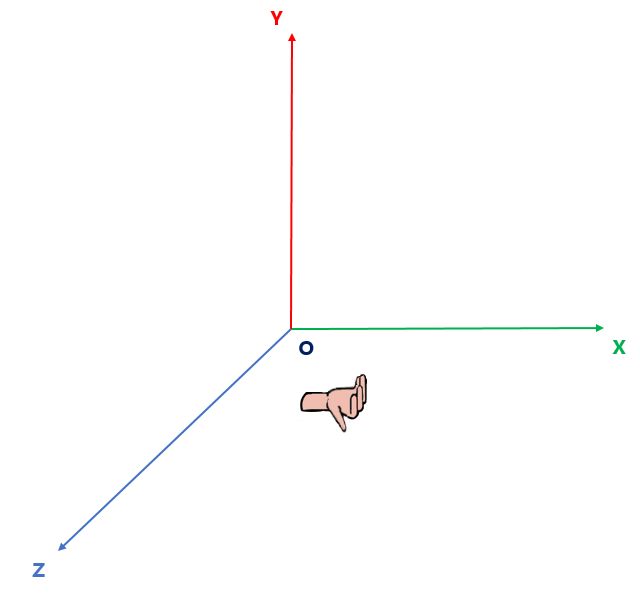
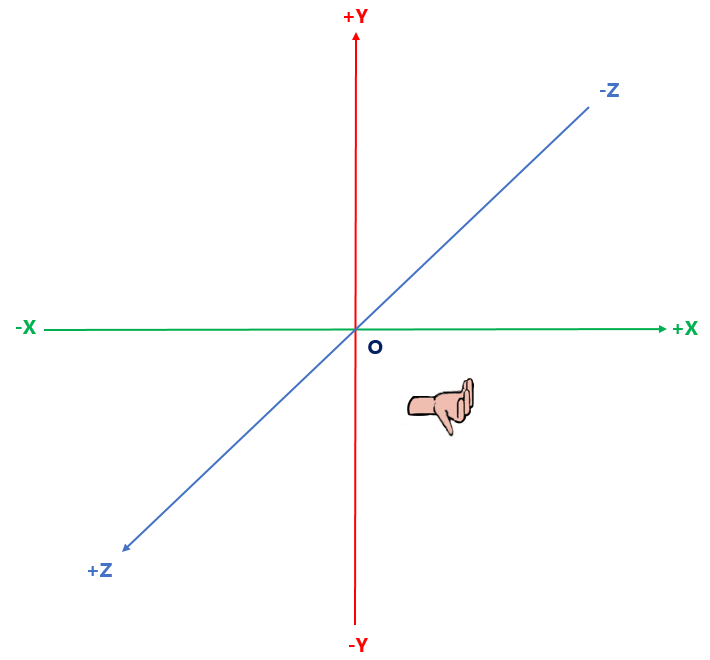
1、添加文档图片资源

diff --git a/README.md b/README.md
@@ -1354,11 +1354,15 @@ public:
 - 相机坐标系
 - 坐标系转换
 
-　　经过以上那么多铺垫，终于要开始我们的3-D世界旅程了。不过在开始我们3-D世界的旅程之前，先要认识我们的世界。
+　　经过以上那么多铺垫，终于要开始我们的3-D世界旅程了。
 
 ## 6.1 笛卡尔坐标系
 
+　　2-D笛卡尔坐标系入手，我们的3-D世界就从这里开始。
+
 ### 6.1.1 2D笛卡尔坐标系
+
+
 
 ### 6.1.2 3D笛卡尔坐标系
 
